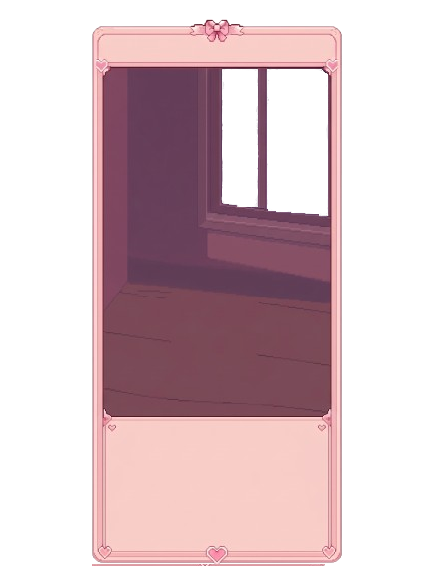
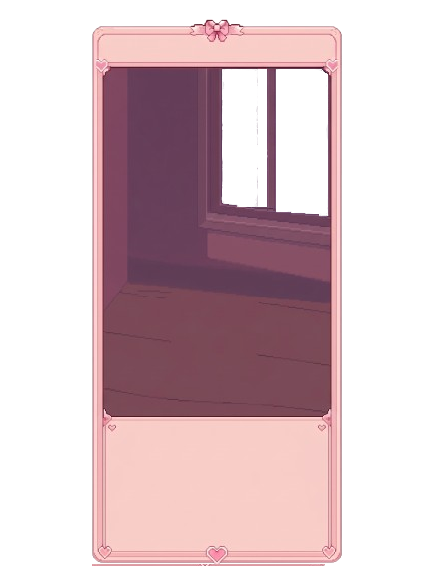
Added more scenes and improved clock alignment and window sizing.

Changed region(s): [[0.5691, 0.1183, 0.659, 0.3843]]

diff --git a/src/App.jsx b/src/App.jsx
@@ -50,13 +50,21 @@ import sceneMountainsPhone from '../assets/pink/scenes/mountains_phone.png';
 import sceneGardenTablet from '../assets/pink/scenes/garden_tablet.png';
 import sceneCoastTablet from '../assets/pink/scenes/coast_tablet.png';
 import sceneMountainsTablet from '../assets/pink/scenes/mountains_tablet.png';
-import sceneRooftopSunsetPhone from '../assets/pink/scenes/rooftop_sunset_phone.png';
-import sceneCityDayPhone from '../assets/pink/scenes/city_day_phone.png';
-import sceneRooftopSunsetTablet from '../assets/pink/scenes/rooftop_sunset_tablet.png';
-import sceneCityDayTablet from '../assets/pink/scenes/city_day_tablet.png';
+import sceneCitySunsetCatPhone from '../assets/pink/scenes/city_sunset_cat_phone.png';
+import sceneCitySunsetCatTablet from '../assets/pink/scenes/city_sunset_cat_tablet.png';
+import sceneLakeCrescentDuskPhone from '../assets/pink/scenes/lake_crescent_dusk_phone.png';
+import sceneLakeCrescentDuskTablet from '../assets/pink/scenes/lake_crescent_dusk_tablet.png';
+import sceneMoonlitSeaPhone from '../assets/pink/scenes/moonlit_sea_phone.gif';
+import sceneMoonlitSeaTablet from '../assets/pink/scenes/moonlit_sea_tablet.gif';
+import sceneCrescentBeachPhone from '../assets/pink/scenes/crescent_beach_phone.png';
+import sceneCrescentBeachTablet from '../assets/pink/scenes/crescent_beach_tablet.png';
+import sceneCampfireForestPhone from '../assets/pink/scenes/campfire_forest_phone.gif';
+import sceneCampfireForestTablet from '../assets/pink/scenes/campfire_forest_tablet.gif';
 const pinkWindowScenes = {
-  phone: [sceneGardenPhone, sceneCoastPhone, sceneMountainsPhone, sceneRooftopSunsetPhone, sceneCityDayPhone],
-  tablet: [sceneGardenTablet, sceneCoastTablet, sceneMountainsTablet, sceneRooftopSunsetTablet, sceneCityDayTablet],
+  phone: [sceneGardenPhone, sceneCoastPhone, sceneMountainsPhone,
+    sceneCitySunsetCatPhone, sceneLakeCrescentDuskPhone, sceneMoonlitSeaPhone, sceneCrescentBeachPhone, sceneCampfireForestPhone],
+  tablet: [sceneGardenTablet, sceneCoastTablet, sceneMountainsTablet,
+    sceneCitySunsetCatTablet, sceneLakeCrescentDuskTablet, sceneMoonlitSeaTablet, sceneCrescentBeachTablet, sceneCampfireForestTablet],
 };
 
 // Singleton cache so we only ever call createMediaElementSource once per <audio> element
@@ -1089,8 +1097,8 @@ const handleCatClick = (e) => {
                   transform: `translate(-23.8%, -50%) rotate(${clockAngles.hour - 90}deg)`
                 } : {
                   /* Pink hour hand */
-                  transformOrigin: '15% 50%',
-                  transform: `translate(-15%, -50%) rotate(${clockAngles.hour - 90}deg)`
+                  transformOrigin: '17.39% 45%',
+                  transform: `translate(-17.39%, -45%) rotate(${clockAngles.hour - 90}deg)`
                 }}
               />
             )}
@@ -1108,8 +1116,8 @@ const handleCatClick = (e) => {
                   transform: `translate(-48%, -66%) rotate(${clockAngles.minute}deg)`
                 } : {
                   /* Pink minute hand */
-                  transformOrigin: '12% 50%',
-                  transform: `translate(-12%, -50%) rotate(${clockAngles.minute - 90}deg)`
+                  transformOrigin: '17.39% 41.12%',
+                  transform: `translate(-17.39%, -41.12%) rotate(${clockAngles.minute - 90}deg)`
                 }}
               />
             )}
@@ -1122,8 +1130,8 @@ const handleCatClick = (e) => {
                 alt=""
                 draggable={false}
                 style={{
-                  transformOrigin: '10% 50%',
-                  transform: `translate(-10%, -50%) rotate(${clockAngles.second - 90}deg)`
+                  transformOrigin: '17.17% 50%',
+                  transform: `translate(-17.17%, -50%) rotate(${clockAngles.second - 90}deg)`
                 }}
               />
             )}
